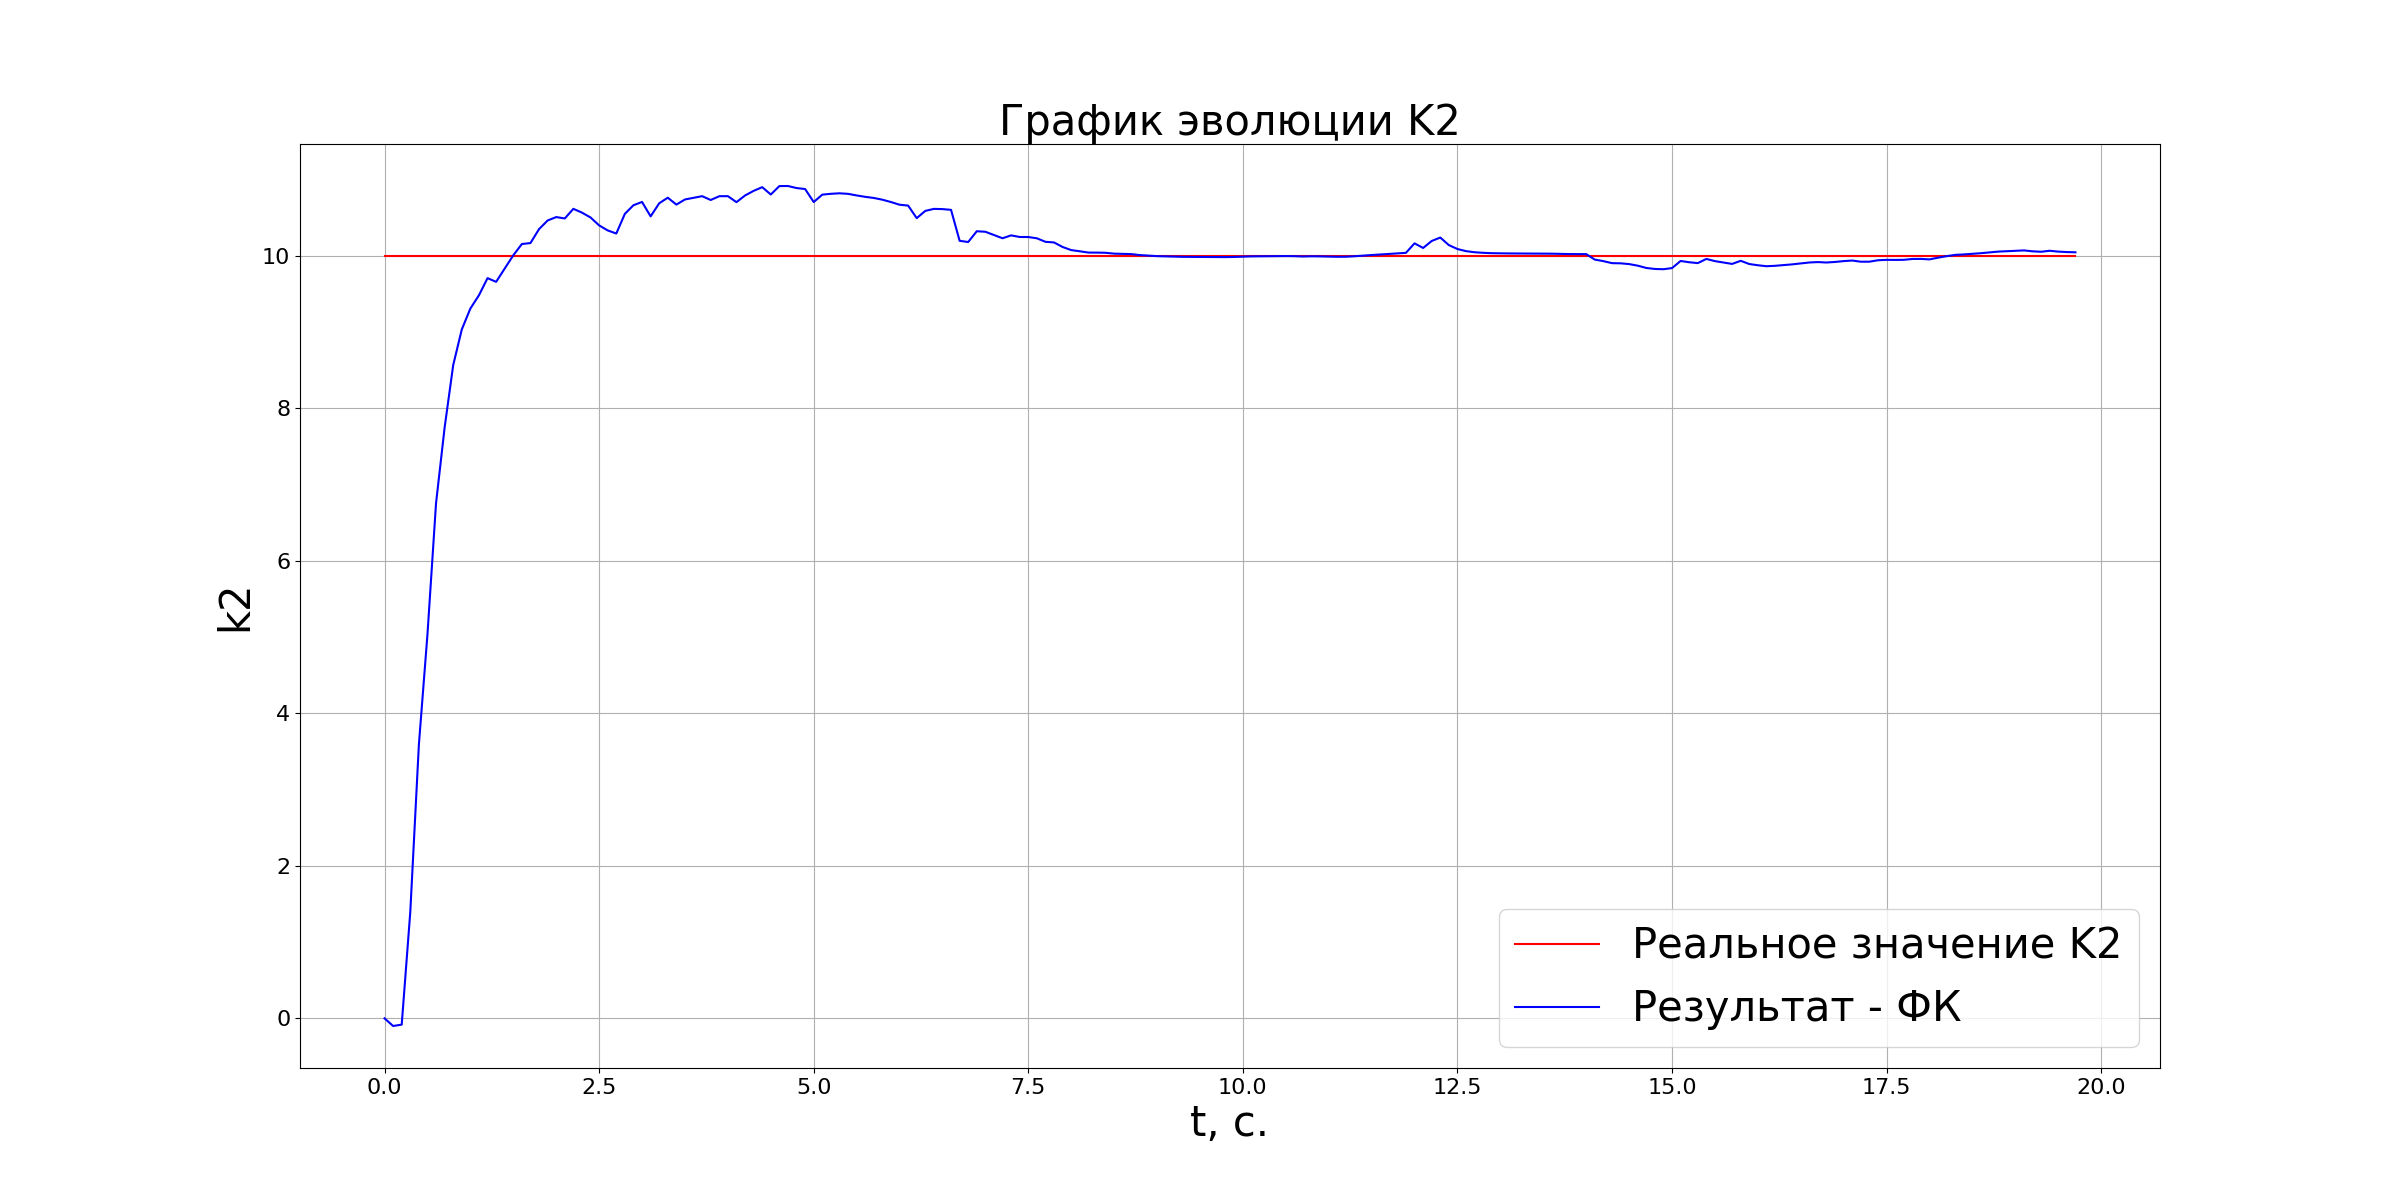
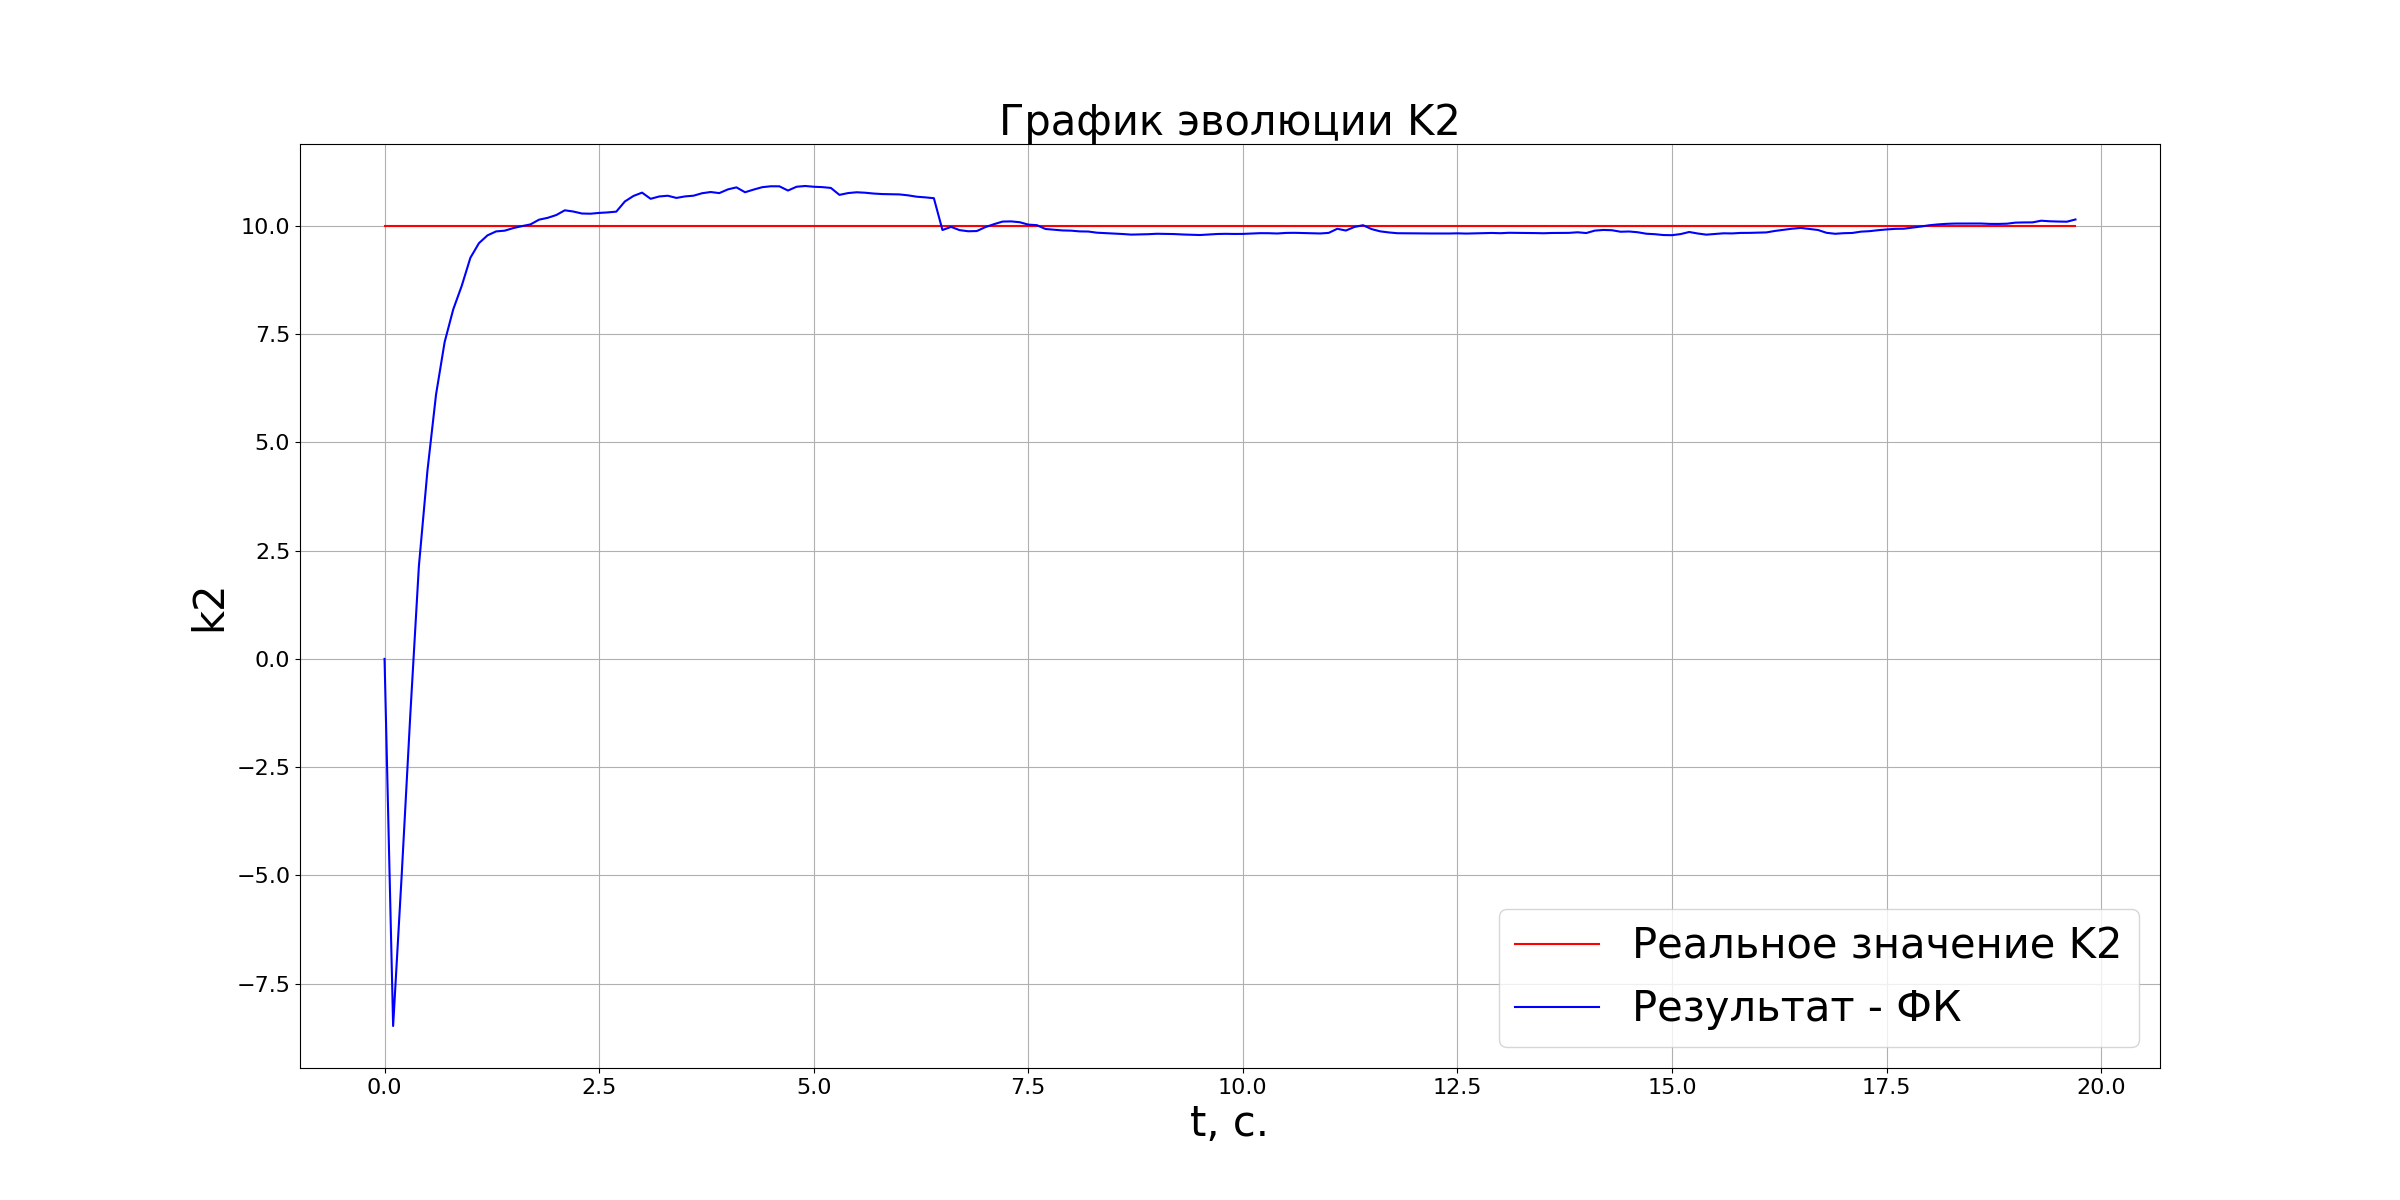
Up

diff --git a/Model.py b/Model.py
@@ -42,15 +42,15 @@ class Model:
 
         #ошибки измерений
         self.__Dn=np.asarray([
-            [0.0001,0,0.],
-            [0,0.0001,0.],
-            [0,0,0.01],
+            [0.01,0,0.],
+            [0,0.01,0.],
+            [0,0,0.0049],
         ])
 
         self.__Dn2=np.asarray([
-            [0.0001,0,0,0,0],
-            [0,0.0001,0,0,0],
-            [0,0,0.01,0,0],
+            [0.01,0,0,0,0],
+            [0,0.01,0,0,0],
+            [0,0,0.0049,0,0],
             [0,0,0.,9.,0],
             [0.,0.,0.,0.,9.]
         ])
@@ -98,7 +98,7 @@ class Model:
         currentT=0
         #если преграды нет, то движемся прямо к двери
         if (d1>=30) and (d3>=30) and (d2>=30):
-            alpha=tan(atan2((position[1]-__y),(position[0]-__x)))
+            alpha=atan2((position[1]-__y),(position[0]-__x))
             dwz1=alpha-__wz
             if dwz1>self.dw*dt:
                 dwz=self.dw*dt
@@ -108,7 +108,7 @@ class Model:
             c=30
 
         #если преграды нет, то есть ограничения, то сохряняем угол траектории
-        if (d1>=30) and ((d2<=30) or (d3<=30)):
+        if (d1>30) and ((d2<30) or (d3<30)):
             dwz=0
             currentT=dt
             c=30
@@ -134,21 +134,16 @@ class Model:
 
 
         #если занято с обоих сторон, то поворачиваем направо
-        elif (d1<30) and (d3<30) and (d2<30) :
-            dwz=0
-            #while (self.dw>self.dw*currentT):
-            dwz+=self.dw*dt
-            currentT=dt
-                #currentT+=dt
-            c=0
+        # elif (d1<30) and (d3<30) and (d2<30) :
+        #     dwz=0
+        #     #while (self.dw>self.dw*currentT):
+        #     dwz+=self.dw*dt
+        #     currentT=dt
+        #         #currentT+=dt
+        #     c=0
 
         return c,dwz,currentT
 
-    def BeginEnd(self,x0,x1):
-        if x0<=x1:
-            return x0,x1
-        if x0>=x1:
-            return x1,x0
 
     def Simulate(self,dt):
         """
@@ -161,7 +156,7 @@ class Model:
         """
         t0=0
         position=self.__door.position
-        alpha=tan(atan2((position[1]-self.__y),(position[0]-self.__x)))
+        alpha=atan2((position[1]-self.__y),(position[0]-self.__x))
         self.__wz=alpha
 
         qrlist=[]
@@ -289,18 +284,18 @@ class Model:
             metka=""
             if len(Detected)!=0:
                 for qr in Detected:
-                    __qrx+=qr[0]+random.normal(0,2)
-                    __qry+=qr[1]+random.normal(0,2)
+                    __qrx+=qr[0]+random.normal(0,3)
+                    __qry+=qr[1]+random.normal(0,3)
                 __qrx=__qrx/len(Detected)
                 __qry=__qry/len(Detected)
                 metka="qr"
             else:
                 metka="bins"
 
-            __x=self.__x+t0*10+random.normal(0,0.01)
-            __y=self.__y+t0*10+random.normal(0,0.01)
+            __x=self.__x+t0*10+random.normal(0,0.1)
+            __y=self.__y+t0*10+random.normal(0,0.1)
                     
-            __wz=self.__wz+random.normal(0,0.1)
+            __wz=self.__wz+random.normal(0,0.07)
             __d1=resultD1
             __d2=resultD2
             __d3=resultD3
@@ -322,13 +317,13 @@ class Model:
             self.__cT+=newDt
             if t0>=10000: break
 
-            if ((position[1]-self.__y)**2+(position[0]-self.__x)**2)**0.5<25:
+            if abs(((position[1]-self.__y)**2+(position[0]-self.__x)**2)**0.5)<=20:
                 break
 
 
     def Prediction(self,U,dt,t,metka):
-        if t>dt:
-            F=np.asarray([
+
+        F=np.asarray([
                 [1.,0.,0, 0., 0.,0.,0, 0., 0.],
                 [0.,1.,0, 0.,0.,0.,0, 0., 0.],
                 [0.,0.,1.,0.,0.,0.,0, 0., 0.],
@@ -342,47 +337,19 @@ class Model:
                 [0.5/(t/dt)/dt,0,0.,0.,-0.5/(t/dt)/dt,0.,0, 0.5, 0],
                 [0.,0.5/(t/dt)/dt,0.,0.,0.,-0.5/(t/dt)/dt,0, 0., 0.5],
                 ],dtype=float)
-        else:
-            F=np.asarray([
-                [1.,0.,0, 0., 0.,0.,0, 0., 0.],
-                [0.,1.,0, 0.,0.,0.,0, 0., 0.],
-                [0.,0.,1.,0.,0.,0.,0, 0., 0.],
-            
-                [1.,0.,0.,0.,0.,0.,0, -t, 0.],
-                [0.,1.,0.,0.,0.,0.,0, 0., -t],
-            
-                [0.,0.,0.,0.,1.,0.,0, 0., 0],
-                [0.,0.,0.,0.,0.,1.,0, 0., 0],
 
-                [dt*0.5,0,0.,0.,-dt*0.5,0.,0, 0.5, 0],
-                [0.,dt*0.5,0.,0.,0.,-dt*0.5,0, 0., 0.5],
-                ],dtype=float)
-
-
-      
+    
         De=np.asarray([
             [dt,0,0,0,0,0,0,0,0],
             [0,dt,0,0,0,0,0,0,0],
-            [0,0,dt*dt,0,0,0,0,0,0],
-            [0,0,0,9*dt,0,0,0,0,0],
-            [0,0,0,0,9*dt,0,0,0,0],
+            [0,0,(0.5*np.pi*dt)**2,0,0,0,0,0,0],
+            [0,0,0,(15*dt)**2,0,0,0,0,0],
+            [0,0,0,0,(15*dt)**2,0,0,0,0],
             [0,0,0,0,0,0,0,0,0],
             [0,0,0,0,0,0,0,0,0],
             [0,0,0,0,0,0,0,0,0],
             [0,0,0,0,0,0,0,0,0],
         ])
-        # else:
-        #     De=np.asarray([
-        #     [dt,0,0,0,0,0,0,0,0],
-        #     [0,dt,0,0,0,0,0,0,0],
-        #     [0,0,dt*dt,0,0,0,0,0,0],
-        #     [0,0,0,9*dt,0,0,0,0,0],
-        #     [0,0,0,0,9*dt,0,0,0,0],
-        #     [0,0,0,0,0,0,0,0,0],
-        #     [0,0,0,0,0,0,0,0,0],
-        #     [0,0,0,0,0,0,0,0,0],
-        #     [0,0,0,0,0,0,0,0,0],
-        #     ])
 
         self.__x_p[0]=self.__x_c[0]+U[0]*cos(self.__x_c[2]+U[1])*dt
         self.__x_p[1]=self.__x_c[1]+U[0]*sin(self.__x_c[2]+U[1])*dt
@@ -394,12 +361,10 @@ class Model:
         self.__x_p[5]=self.__x_c[5]+U[0]*cos(self.__x_c[2]+U[1])*dt
         self.__x_p[6]=self.__x_c[6]+U[0]*sin(self.__x_c[2]+U[1])*dt
 
-        if t>dt:
-            self.__x_p[7]=(self.__x_c[7]+(self.__x_c[0]-self.__x_c[5])/(t/dt)/dt)/2.
-            self.__x_p[8]=(self.__x_c[8]+(self.__x_c[1]-self.__x_c[6])/(t/dt)/dt)/2.
-        else:
-            self.__x_p[7]=(self.__x_c[7]+(self.__x_c[0]-self.__x_c[5])*dt)/2
-            self.__x_p[8]=(self.__x_c[8]+(self.__x_c[1]-self.__x_c[6])*dt)/2
+        
+        self.__x_p[7]=(self.__x_c[7]+(self.__x_c[0]-self.__x_c[5])/(t/dt)/dt)/2.
+        self.__x_p[8]=(self.__x_c[8]+(self.__x_c[1]-self.__x_c[6])/(t/dt)/dt)/2.
+
 
 
         self.__p_p=np.dot(np.dot(F,self.__p_c),np.transpose(F))+De
@@ -429,7 +394,7 @@ class Model:
     def FilterKalman(self,dt):
         t0=0
         position=self.__door.position
-        alpha=tan(atan2((position[1]-self.__initY),(position[0]-self.__initX)))
+        alpha=atan2((position[1]-self.__initY),(position[0]-self.__initX))
         self.__wz=alpha
 
         self.__x_p[0]=self.__initX
@@ -443,15 +408,15 @@ class Model:
         self.__x_p[8]=0
      
 
-        self.__p_p[0][0]=10
-        self.__p_p[1][1]=10
+        self.__p_p[0][0]=9
+        self.__p_p[1][1]=9
         self.__p_p[2][2]=1
-        self.__p_p[3][3]=10
-        self.__p_p[4][4]=10
-        self.__p_p[5][5]=10
-        self.__p_p[6][6]=10
-        self.__p_p[7][7]=20
-        self.__p_p[8][8]=20
+        self.__p_p[3][3]=9
+        self.__p_p[4][4]=9
+        self.__p_p[5][5]=9
+        self.__p_p[6][6]=9
+        self.__p_p[7][7]=9
+        self.__p_p[8][8]=9
    
         
         index=0
@@ -462,9 +427,6 @@ class Model:
 
             Data=self.Y[index]
 
-            # if Data[1]=="qr":
-            #     self.__cT=3-1
-            
             y=Data[2]
             otherY=Data[3]           
 
@@ -474,21 +436,7 @@ class Model:
 
             c,dwz,newDt=self.Control(dt,otherY[0],otherY[1],otherY[2],self.__x_c[3],self.__x_c[4],self.__x_c[2])
             U=np.asarray([c,dwz])
-            # if Data[1]=="qr":
-            #     n=(Data[0]/dt)
-            #     d1=(self.__x_c[0]-otherY[3])/(n-1)
-            #     d2=(self.__x_c[1]-otherY[4])/(n-1)
-
-            #     if k1==0:    
-            #         k1=d1/dt
-            #         k2=d2/dt
-            #     else:
-            #         k1=(k1+d1/dt)/2
-            #         k2=(k2+d2/dt)/2
-            #     coeff=8
-            # elif k1==0:
-            #     coeff=self.__cT*8
-            self.Prediction(U,newDt,Data[0],Data[1])
+            self.Prediction(U,newDt,Data[0]+dt,Data[1])
             
             
             

diff --git a/test.py b/test.py
@@ -39,4 +39,7 @@ scene.addEllipse(-10,400-10-50,20,20)
 scene.addEllipse(400-10,400-10-50,20,20)
 scene.addEllipse(400-10-50,400-10,20,20)
 
+print((0.07*180/np.pi)*(0.07*180/np.pi))
+
+print((0.15*180/np.pi))
 sys.exit(app.exec())
